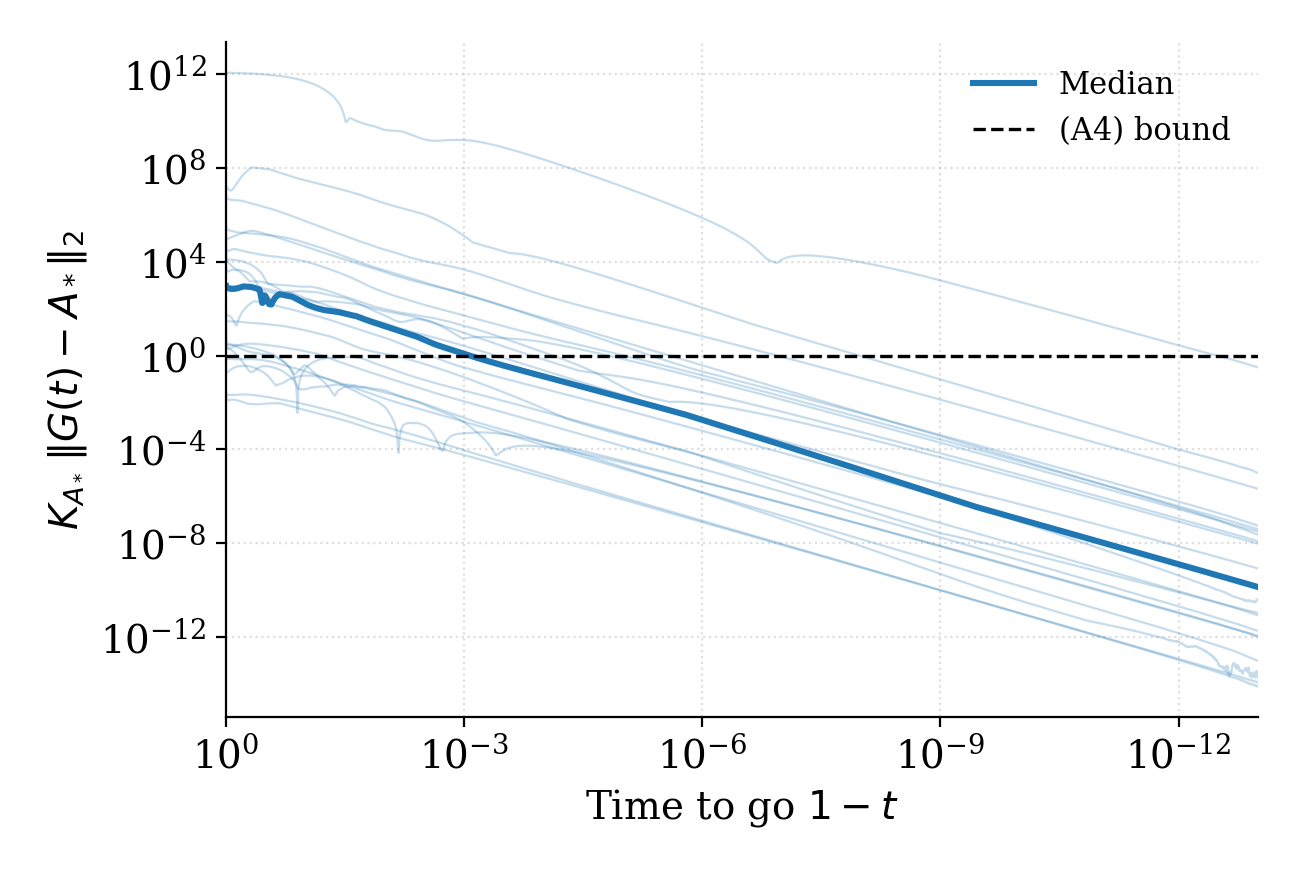
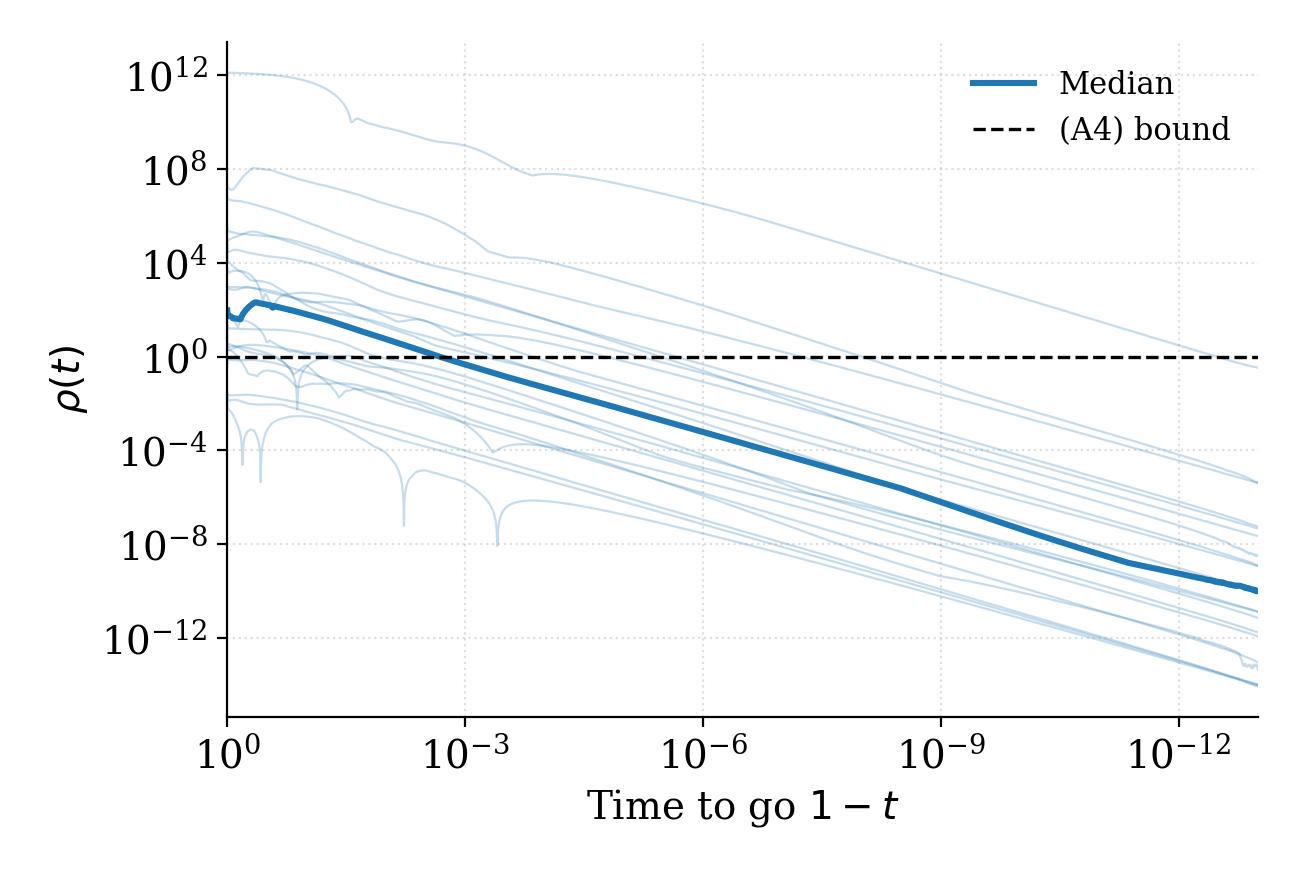
change small variation y label

diff --git a/experiments/small_variation.py b/experiments/small_variation.py
@@ -107,7 +107,7 @@ def plot():
         ax.set_xlim(1, PLOT_TIME_TO_GO)
         ax.set_xticks(10.0 ** -np.arange(0, 13, 3))
         ax.set_xlabel(r"Time to go $1 - t$")
-        ax.set_ylabel(r"$K_{A_*}\,\|G(t) - A_*\|_2$")
+        ax.set_ylabel(r"$\rho(t)$")
         ax.grid(which="major", linestyle=":", alpha=0.4)
         ax.spines[["top", "right"]].set_visible(False)
         ax.legend(frameon=False, fontsize=11)
